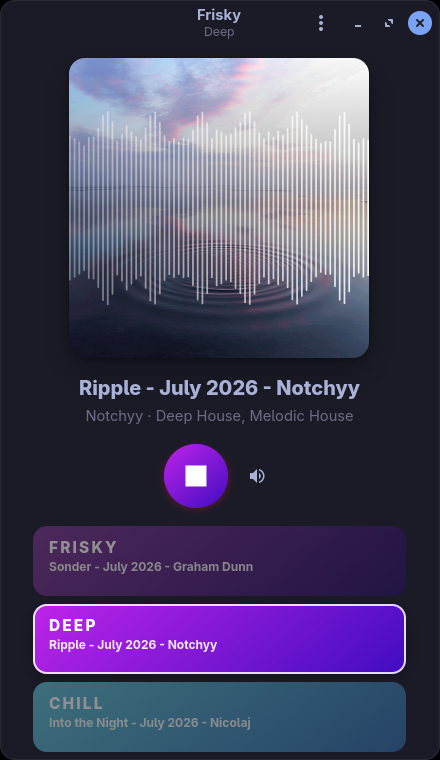
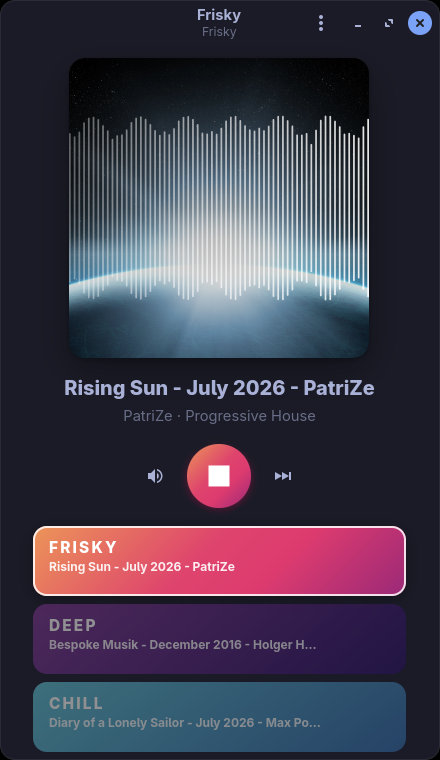
Add a next-channel button, and make the transport row symmetric
The transport had play and volume sitting off-centre together. Volume moves to
the left, a next-channel button takes the right, and both are sized alike so the
row balances about the play button.

Channel stepping moves onto the window so the button and MPRIS Next/Previous
share one implementation rather than two that can drift.

Screenshot refreshed, since the old one shows the previous row.

diff --git a/data/resources/style.css b/data/resources/style.css
@@ -37,6 +37,14 @@
 
 /* -------------------------------------------------------------- transport */
 
+/* Volume and next-channel flank the play button. Sized identically so the row
+ * stays symmetric about its centre. */
+.transport-side {
+  min-width: 40px;
+  min-height: 40px;
+  padding: 0;
+}
+
 .play-button {
   min-width: 64px;
   min-height: 64px;

diff --git a/src/window.rs b/src/window.rs
@@ -221,11 +221,15 @@ impl FriskyWindow {
             .activate(|window: &Self, _, _| window.present_preferences())
             .build();
 
+        let next_channel = gio::ActionEntry::builder("next-channel")
+            .activate(|window: &Self, _, _| window.step_channel(1))
+            .build();
+
         let compact = gio::ActionEntry::builder("compact")
             .activate(|window: &Self, _, _| window.toggle_compact())
             .build();
 
-        self.add_action_entries([toggle, refresh, preferences, compact]);
+        self.add_action_entries([toggle, refresh, preferences, compact, next_channel]);
     }
 
     /// Builds a visualiser for each layout.
@@ -811,6 +815,19 @@ impl FriskyWindow {
     /// Switches channel and starts playing it.
     pub fn activate_channel(&self, channel: Channel) {
         self.select_channel(channel, true);
+    }
+
+    /// Moves `offset` channels from the current one, wrapping around.
+    ///
+    /// Shared by the transport's next button and MPRIS Next/Previous, so the
+    /// two cannot drift apart.
+    pub fn step_channel(&self, offset: isize) {
+        let current = self.imp().selected.get();
+        let count = Channel::ALL.len() as isize;
+        let index = Channel::ALL.iter().position(|c| *c == current).unwrap_or(0) as isize;
+
+        let next = Channel::ALL[(index + offset).rem_euclid(count) as usize];
+        self.select_channel(next, true);
     }
 
     pub fn toggle_playback_external(&self) {

diff --git a/src/mpris.rs b/src/mpris.rs
@@ -147,17 +147,10 @@ impl FriskyMpris {
         builder.length(Time::ZERO).build()
     }
 
-    /// Moves `offset` channels from the current one, wrapping around.
     fn step_channel(&self, offset: isize) -> fdo::Result<()> {
-        let Some(window) = self.window() else {
-            return Ok(());
-        };
-        let current = window.selected_channel();
-        let count = Channel::ALL.len() as isize;
-        let index = Channel::ALL.iter().position(|c| *c == current).unwrap_or(0) as isize;
-
-        let next = Channel::ALL[((index + offset).rem_euclid(count)) as usize];
-        window.activate_channel(next);
+        if let Some(window) = self.window() {
+            window.step_channel(offset);
+        }
         Ok(())
     }
 }
